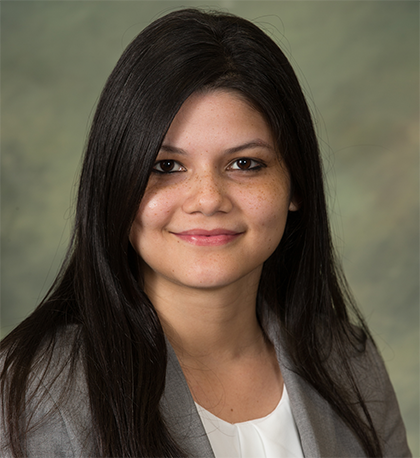
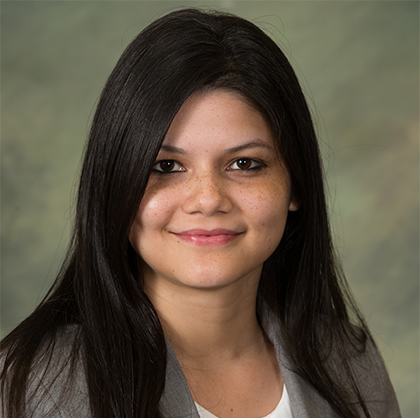
updated

diff --git a/public/about-us.html b/public/about-us.html
@@ -210,10 +210,10 @@
 									<div class="team" >
 										<div class="flipper">
 											<div class="flipper_wrapper">
-												<img class="scale-with-grid" src="upload/team_3.png" alt="Aman Agarwal"/>
+												<img class="scale-with-grid" src="upload/aman.png" alt="Aman Agarwal"/>
 											</div>
 											<div class="photo">
-												<img class="scale-with-grid" src="upload/team_3.png" alt="Aman Agarwal"/>
+												<img class="scale-with-grid" src="upload/aman.png" alt="Aman Agarwal"/>
 											</div>
 											<div class="desc">
 												<table>
@@ -246,7 +246,7 @@
 												<img class="scale-with-grid" src="upload/Kalita_Reemi.png" alt="Reemi Kalita"/>
 											</div>
 											<div class="photo">
-												<img class="scale-with-grid" src="upload/team_1.png" alt="Reemi Kalita"/>
+												<img class="scale-with-grid" src="upload/Kalita_Reemi.png" alt="Reemi Kalita"/>
 											</div>
 											<div class="desc">
 												<table>
@@ -274,10 +274,10 @@
 									<div class="team" >
 										<div class="flipper">
 											<div class="flipper_wrapper">
-												<img class="scale-with-grid" src="upload/team_4.png" alt="Shivani Singla"/>
+												<img class="scale-with-grid" src="upload/shivani.png" alt="Shivani Singla"/>
 											</div>
 											<div class="photo">
-												<img class="scale-with-grid" src="upload/team_4.png" alt="Shivani Singla"/>
+												<img class="scale-with-grid" src="upload/shivani.png" alt="Shivani Singla"/>
 											</div>
 											<div class="desc">
 												<table>
@@ -306,10 +306,10 @@
 									<div class="team" >
 										<div class="flipper">
 											<div class="flipper_wrapper">
-												<img class="scale-with-grid" src="upload/team_2.png" alt="Nitika"/>
+												<img class="scale-with-grid" src="upload/nitika.png" alt="Nitika"/>
 											</div>
 											<div class="photo">
-												<img class="scale-with-grid" src="upload/team_2.png" alt="Nitika"/>
+												<img class="scale-with-grid" src="upload/nitika.png" alt="Nitika"/>
 											</div>
 											<div class="desc">
 												<table>
